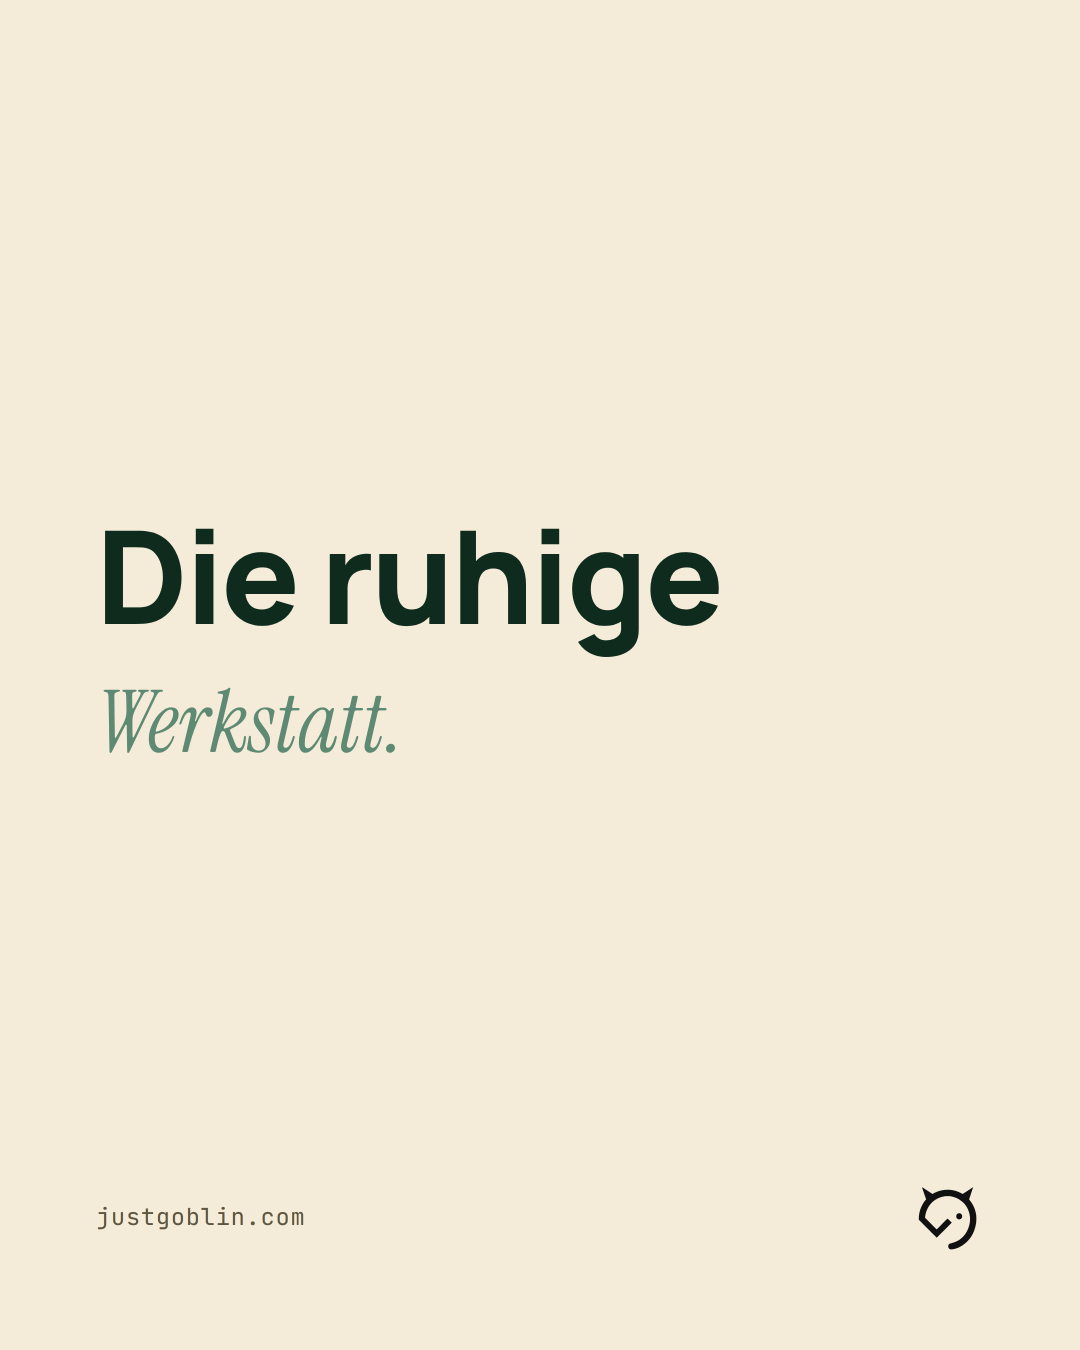
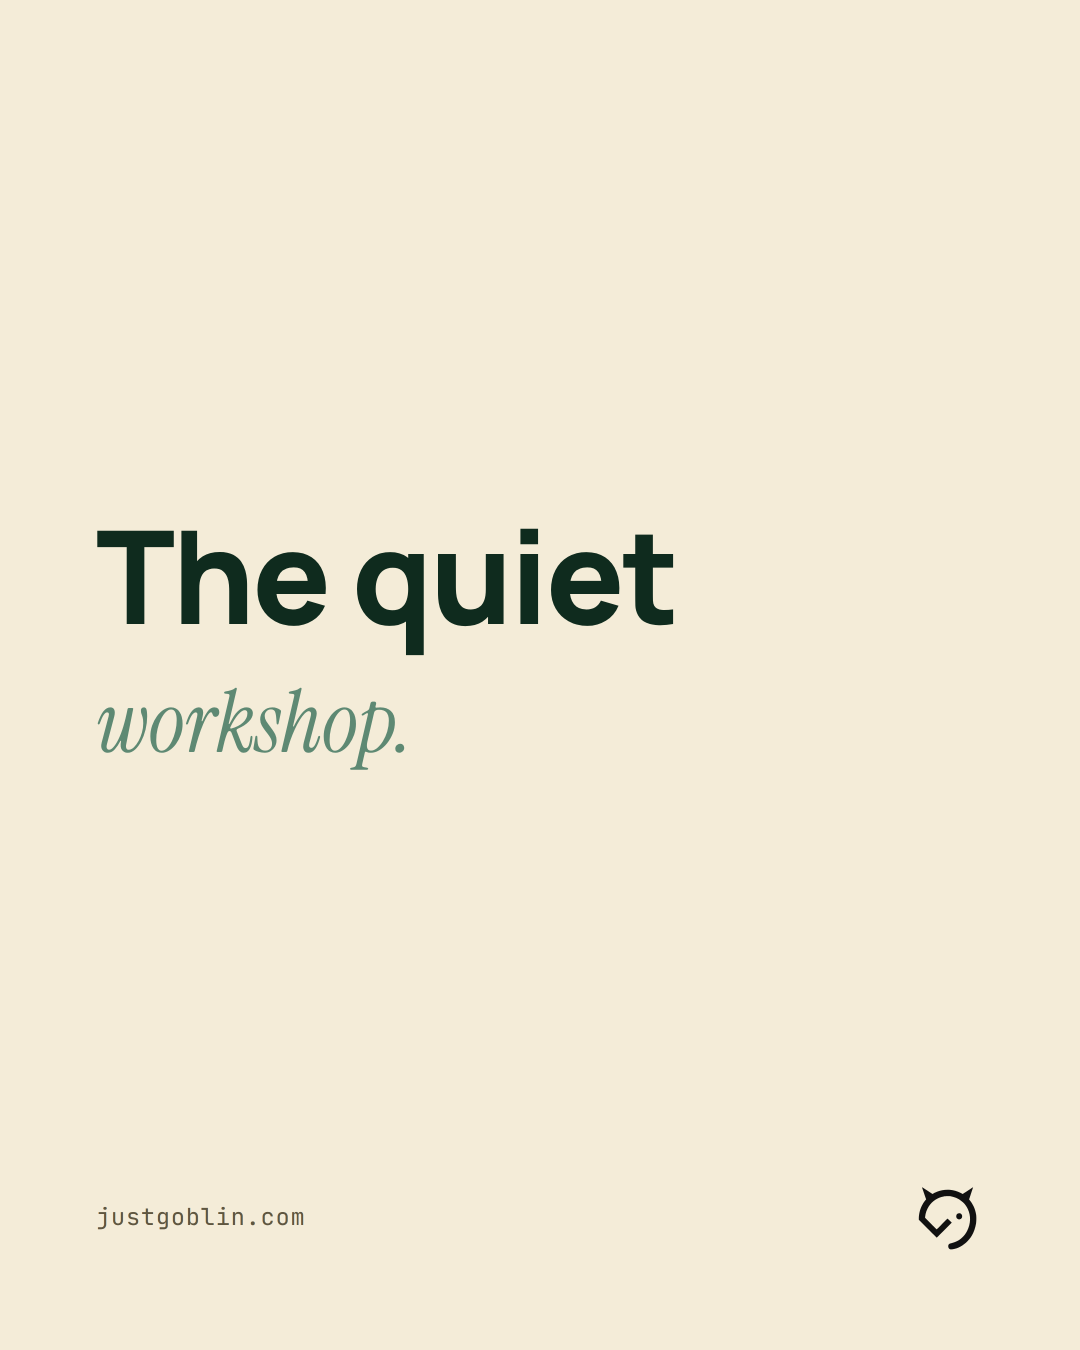
die-ruhige-werkstatt: translate to English
"The quiet / workshop." replaces "Die ruhige / Werkstatt.", accent still in
Instrument Serif italic. Caption translated too.

Changed region(s): [[0.0917, 0.3733, 0.6722, 0.4978], [0.0917, 0.4978, 0.3667, 0.56]]

diff --git a/content/social/posts/die-ruhige-werkstatt/caption.md b/content/social/posts/die-ruhige-werkstatt/caption.md
@@ -1,9 +1,9 @@
-Die meisten Werkzeuge schreien.
-Badges, Countdowns, Zahlen, die niemanden
-interessieren.
+Most tools shout.
+Badges, countdowns, numbers nobody
+cares about.
 
-Goblin ist eine Werkstatt: aufgeräumter Tisch,
-ein nächster Schritt, nichts, was um deine
-Aufmerksamkeit kämpft.
+Goblin is a workshop: a clear desk,
+one next step, nothing fighting for
+your attention.
 
-Einfachheit ist kein Feature. Sie ist der Graben.
+Simplicity isn’t a feature. It’s the moat.
